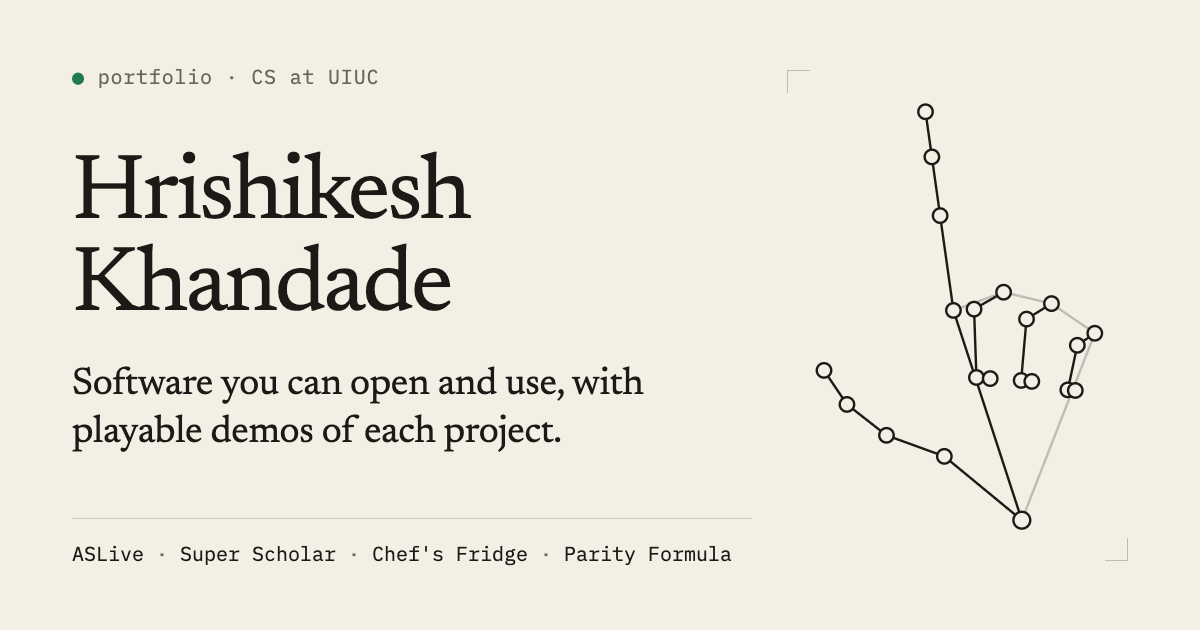
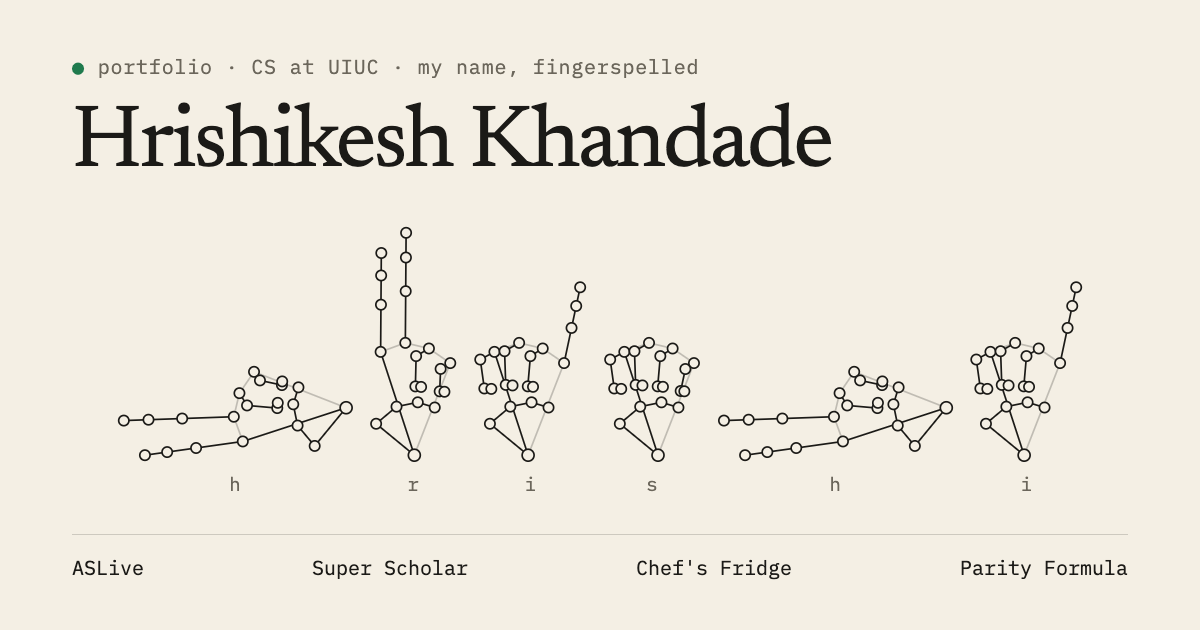
feat: share card fingerspells the name with six hands
Replace the single hand on the link preview image with a row of hands
spelling H-R-I-S-H-I, each labelled, drawn by the site's own hand code.

diff --git a/dev/share-card.ts b/dev/share-card.ts
@@ -3,31 +3,60 @@ import '@fontsource/ibm-plex-mono/latin-400.css'
 import '@fontsource/ibm-plex-mono/latin-500.css'
 import { site } from '../src/content/site'
 import { drawHand } from '../src/hand/draw'
-import { LETTERS, REST } from '../src/hand/poses'
+import { LETTERS } from '../src/hand/poses'
 import { landmarks } from '../src/hand/skeleton'
 
-// ?pose=Y picks another fingerspelled letter; the default is L, which reads clearly as a hand.
-const letter = new URLSearchParams(location.search).get('pose')?.toUpperCase() ?? ''
-const pose = letter === 'REST' ? REST : LETTERS[letter] ?? LETTERS.L
+const add = (parent: HTMLElement, tag: string, text: string): void => {
+  const node = document.createElement(tag)
+  node.textContent = text
+  parent.append(node)
+}
+
+// The card writes the name twice: once in type, once fingerspelled by the same hand the site uses.
+// Six hands stay readable when a feed shrinks the card; the full first name makes them too small.
+const word = (new URLSearchParams(location.search).get('spell') ?? 'HRISHI').toUpperCase().replace(/[^A-Z]/g, '')
+const hands = [...word].map((ch) => landmarks(LETTERS[ch]))
 
 document.getElementById('name')!.textContent = site.wordmark
 const label = document.getElementById('label')!
-const b = document.createElement('b')
-b.textContent = '● '
-label.append(b, 'portfolio · CS at UIUC')
+add(label, 'b', '● ')
+label.append('portfolio · CS at UIUC · my name, fingerspelled')
+const letters = document.getElementById('letters')!
+for (const ch of word) add(letters, 'span', ch.toLowerCase())
 const work = document.getElementById('work')!
-site.work.forEach((w, i) => {
-  if (i) { const dot = document.createElement('span'); dot.textContent = '  ·  '; work.append(dot) }
-  work.append(w.name)
-})
+for (const w of site.work) add(work, 'i', w.name)
+work.querySelectorAll('i').forEach((i) => { (i as HTMLElement).style.fontStyle = 'normal' })
 
-// The site draws the hand with 1px lines; drawing at 1/K size and scaling up keeps its proportions.
-const K = 2.4
-/** Canvas units per hand unit, before the K scale-up. */
-const SCALE = 95
-const canvas = document.getElementById('hand') as HTMLCanvasElement
+// The site draws the hand with 1px lines and 3px joints; drawing small and scaling by K keeps those proportions.
+const K = 1.7
+const GAP = 30 / K
+const canvas = document.getElementById('hands') as HTMLCanvasElement
 const ctx = canvas.getContext('2d')!
 ctx.scale(K, K)
-drawHand(ctx, landmarks(pose), { cx: canvas.width / K / 2 + 0.28 * SCALE, cy: canvas.height / K / 2 + 0.3 * SCALE, scale: SCALE, pointer: null }, {
-  ink: '#1b1a17', faint: 'rgba(27, 26, 23, 0.24)', paper: '#f4efe4',
+const W = canvas.width / K, H = canvas.height / K
+const box = (pts: [number, number][]) => {
+  const xs = pts.map((p) => p[0]), ys = pts.map((p) => p[1])
+  return { x0: Math.min(...xs), x1: Math.max(...xs), y0: Math.min(...ys), y1: Math.max(...ys) }
+}
+// One scale for every hand: as large as the tallest pose and the full row's width allow. Each hand
+// takes only the width it needs, so a sideways H does not shrink the fists beside it.
+const boxes = hands.map(box)
+const widths = boxes.map((b) => b.x1 - b.x0)
+const scale = Math.min(
+  (H - 8) / Math.max(...boxes.map((b) => b.y1 - b.y0)),
+  (W - GAP * (hands.length - 1) - 8) / widths.reduce((a, b) => a + b, 0),
+)
+const row = widths.reduce((a, b) => a + b, 0) * scale + GAP * (hands.length - 1)
+let left = (W - row) / 2
+const spans = [...letters.children] as HTMLElement[]
+hands.forEach((pts, i) => {
+  const b = boxes[i]
+  const mid = left + (widths[i] * scale) / 2
+  // drawHand maps (x, y) to (cx + x * scale, cy - (y - 0.6) * scale); solve so every wrist-to-tip box
+  // is centered on its slot and all hands share a baseline.
+  const cx = mid - ((b.x0 + b.x1) / 2) * scale
+  const cy = H - 4 + (b.y0 - 0.6) * scale
+  drawHand(ctx, pts, { cx, cy, scale, pointer: null }, { ink: '#1b1a17', faint: 'rgba(27, 26, 23, 0.24)', paper: '#f4efe4' })
+  spans[i].style.left = `${mid * K}px`
+  left += widths[i] * scale + GAP
 })

diff --git a/dev/share-card.html b/dev/share-card.html
@@ -1,6 +1,7 @@
 <!doctype html>
 <!--
   Draws the link preview image (public/share.png, 1200 x 630). Not part of the built site.
+  The row of hands fingerspells a word (default: HRISHI); ?spell=WORD tries another.
   To regenerate, with the dev server running on port 5179:
     "/Applications/Google Chrome.app/Contents/MacOS/Google Chrome" --headless=new --hide-scrollbars \
       --force-device-scale-factor=1 --window-size=1200,630 --virtual-time-budget=5000 \
@@ -13,34 +14,31 @@
     <style>
       html, body { margin: 0; }
       .card {
-        position: relative; width: 1200px; height: 630px; overflow: hidden; box-sizing: border-box;
-        background: #f4efe4; color: #1b1a17; padding: 64px 72px;
-        display: grid; grid-template-rows: auto 1fr auto;
+        width: 1200px; height: 630px; overflow: hidden; box-sizing: border-box;
+        background: #f4efe4; color: #1b1a17; padding: 54px 72px 50px;
+        display: grid; grid-template-rows: auto auto 1fr auto; row-gap: 0;
         font-family: 'IBM Plex Mono', ui-monospace, Menlo, monospace;
       }
       .label { margin: 0; font-size: 20px; letter-spacing: 0.04em; color: #6b665b; }
       .label b { font-weight: 500; color: #1f7a4d; }
-      .main { align-self: center; max-width: 660px; }
-      h1 { margin: 0; font-family: 'Newsreader Variable', Georgia, serif; font-weight: 400; font-size: 92px; line-height: 1; letter-spacing: -0.03em; }
-      .line { margin: 28px 0 0; font-family: 'Newsreader Variable', Georgia, serif; font-size: 38px; line-height: 1.25; letter-spacing: -0.01em; color: #1b1a17; max-width: 17em; }
-      .work { margin: 0; padding: 22px 0 0; border-top: 1px solid rgba(27, 26, 23, 0.18); font-size: 20px; color: #1b1a17; max-width: 680px; }
+      h1 { margin: 22px 0 0; font-family: 'Newsreader Variable', Georgia, serif; font-weight: 400; font-size: 88px; line-height: 1; letter-spacing: -0.03em; white-space: nowrap; }
+      .spell { align-self: center; display: grid; gap: 10px; }
+      canvas { display: block; width: 1056px; height: 236px; }
+      .letters { position: relative; height: 26px; margin: 0; font-size: 19px; color: #6b665b; }
+      .letters span { position: absolute; top: 0; transform: translateX(-50%); }
+      .work { margin: 0; padding: 20px 0 0; border-top: 1px solid rgba(27, 26, 23, 0.18); font-size: 20px; color: #1b1a17; display: flex; justify-content: space-between; }
       .work span { color: #6b665b; }
-      canvas { position: absolute; right: 72px; top: 70px; width: 340px; height: 490px; }
-      .tick { position: absolute; width: 22px; height: 22px; border: 0 solid rgba(27, 26, 23, 0.24); }
-      .tl { right: 390px; top: 70px; border-top-width: 1px; border-left-width: 1px; }
-      .br { right: 72px; top: 538px; border-bottom-width: 1px; border-right-width: 1px; }
     </style>
   </head>
   <body>
     <div class="card">
       <p class="label" id="label"></p>
-      <div class="main">
-        <h1 id="name"></h1>
-        <p class="line">Software you can open and use, with playable demos of each project.</p>
+      <h1 id="name"></h1>
+      <div class="spell">
+        <canvas id="hands" width="1056" height="236"></canvas>
+        <p class="letters" id="letters"></p>
       </div>
       <p class="work" id="work"></p>
-      <i class="tick tl"></i><i class="tick br"></i>
-      <canvas id="hand" width="340" height="490"></canvas>
     </div>
     <script type="module" src="./share-card.ts"></script>
   </body>

diff --git a/src/content/meta.ts b/src/content/meta.ts
@@ -29,7 +29,7 @@ export function headTags(site: SiteContent, page: Page): string {
   const title = page === 'resume' ? `Resume · ${site.wordmark}` : site.wordmark
   const text = describe(site, page)
   const image = `${base}${SHARE_IMAGE.path}`
-  const alt = `${site.wordmark}: portfolio, with a line-drawn hand and the projects ${andList(site.work.map((w) => w.name))}`
+  const alt = `${site.wordmark}: portfolio. Line-drawn hands fingerspell H, R, I, S, H, I above the projects ${andList(site.work.map((w) => w.name))}`
   const meta = (attr: 'name' | 'property', key: string, value: string | number): string =>
     `<meta ${attr}="${key}" content="${esc(String(value))}" />`
   return [
